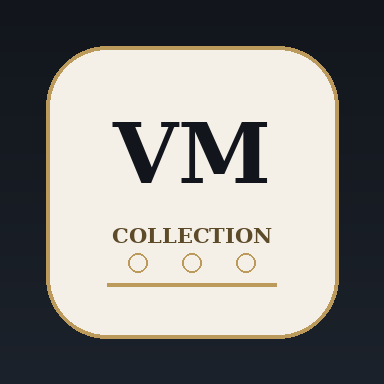
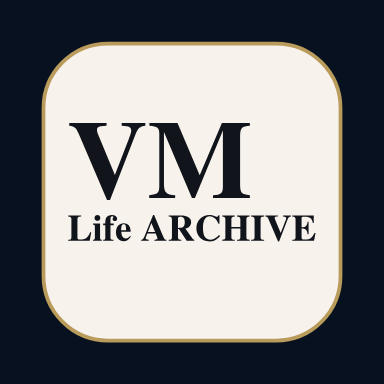
Atualiza ícone oficial do aplicativo para VM Life ARCHIVE

Changed region(s): [[0.0938, 0.0938, 0.9062, 0.9062], [0.1875, 0.3125, 0.7188, 0.5312]]

diff --git a/index.html b/index.html
@@ -8,17 +8,17 @@
   <meta name="apple-mobile-web-app-title" content="VM Life ARCHIVE" />
   <meta name="apple-mobile-web-app-status-bar-style" content="black-translucent" />
   <title>VM Life ARCHIVE</title>
-  <meta name="vm-asset-version" content="202610181" />
-  <link rel="manifest" href="manifest.webmanifest" />
-  <link rel="apple-touch-icon" href="assets/icon-180.png" />
-  <link rel="icon" href="assets/icon-192.png" />
-  <link rel="stylesheet" href="styles.css?v=202610181" />
+  <meta name="vm-asset-version" content="202610182" />
+  <link rel="manifest" href="manifest.webmanifest?v=202610182" />
+  <link rel="apple-touch-icon" href="assets/icon-180.png?v=202610182" />
+  <link rel="icon" href="assets/icon-192.png?v=202610182" />
+  <link rel="stylesheet" href="styles.css?v=202610182" />
 </head>
 <body>
   <div id="appShell">
     <header class="topbar">
       <button class="brand-wrap" type="button" data-go="homeView" aria-label="Ir para o início">
-        <img src="assets/icon-192.png" alt="Logo VM Life ARCHIVE" class="brand-logo" />
+        <img src="assets/icon-192.png?v=202610182" alt="Logo VM Life ARCHIVE" class="brand-logo" />
         <div class="brand-text">
           <div class="brand-vm">VM</div>
           <div class="brand-collection">Life ARCHIVE</div>
@@ -333,7 +333,7 @@
         </div>
 
         <div class="profile-overview">
-          <div class="profile-avatar"><img id="profileOverviewImage" src="assets/icon-192.png" alt="Foto do perfil" /></div>
+          <div class="profile-avatar"><img id="profileOverviewImage" src="assets/icon-192.png?v=202610182" alt="Foto do perfil" /></div>
           <div><span class="panel-kicker">PERFIL DO USUÁRIO</span><h3 id="profileOverviewName">Seu nome</h3><p id="profileOverviewBio">Adicione uma breve descrição sobre você.</p></div>
           <span class="status-pill">Ativo</span>
         </div>
@@ -344,7 +344,7 @@
           </div>
           <div class="profile-edit-grid">
             <div class="profile-photo-editor">
-              <div class="profile-photo-preview"><img id="profilePhotoPreview" src="assets/icon-192.png" alt="Prévia da foto de perfil" /></div>
+              <div class="profile-photo-preview"><img id="profilePhotoPreview" src="assets/icon-192.png?v=202610182" alt="Prévia da foto de perfil" /></div>
               <label class="secondary-btn profile-photo-button">Anexar foto<input id="profilePhotoInput" type="file" accept="image/*" hidden /></label>
               <button id="removeProfilePhotoBtn" class="text-action" type="button">Remover foto</button>
             </div>
@@ -601,6 +601,6 @@
 
   <template id="emptyTemplate"><div class="empty"><span class="empty-symbol">◇</span><strong>Nenhum item por aqui ainda.</strong><p>Use “Adicionar item” para começar sua coleção.</p></div></template>
   <script src="storage.js?v=202606208"></script>
-  <script src="app.js?v=202610181"></script>
+  <script src="app.js?v=202610182"></script>
 </body>
 </html>

diff --git a/app.js b/app.js
@@ -919,7 +919,7 @@ async function saveProfile() {
   }
 }
 
-const HERO_PROFILE_FALLBACK = "assets/icon-192.png";
+const HERO_PROFILE_FALLBACK = "assets/icon-192.png?v=202610182";
 
 function getTimeGreeting() {
   const hour = new Date().getHours();
@@ -957,7 +957,7 @@ function updateHeroProfileImage(sourcePhoto = "") {
 }
 
 function updateProfilePhotoPreview() {
-  const src = profileDraftPhoto || "assets/icon-192.png";
+  const src = profileDraftPhoto || "assets/icon-192.png?v=202610182";
   if ($("profilePhotoPreview")) $("profilePhotoPreview").src = src;
 }
 
@@ -969,7 +969,7 @@ function renderProfile() {
   profileDraftPhoto = data.photo || "";
   updateProfilePhotoPreview();
 
-  const photo = profileDraftPhoto || "assets/icon-192.png";
+  const photo = profileDraftPhoto || "assets/icon-192.png?v=202610182";
   const displayName = data.name?.trim() || "Seu nome";
   const displayBio = data.bio?.trim() || "Adicione uma breve descrição sobre você.";
 

diff --git a/sw.js b/sw.js
@@ -1,4 +1,4 @@
-const CACHE = "vm-collection-v9-category-layout";
+const CACHE = "vm-life-archive-v10-official-icon";
 const FILES = [
   "./",
   "./index.html",
@@ -6,8 +6,12 @@ const FILES = [
   "./app.js",
   "./storage.js",
   "./manifest.webmanifest",
+  "./manifest.webmanifest?v=202610182",
+  "./assets/icon-180.png?v=202610182",
   "./assets/icon-192.png",
+  "./assets/icon-192.png?v=202610182",
   "./assets/icon-512.png",
+  "./assets/icon-512.png?v=202610182",
   "./assets/logo.png"
 ];
 const APP_SHELL_FILES = new Set(["/", "/index.html", "/app.js", "/styles.css", "/storage.js", "/sw.js"]);
